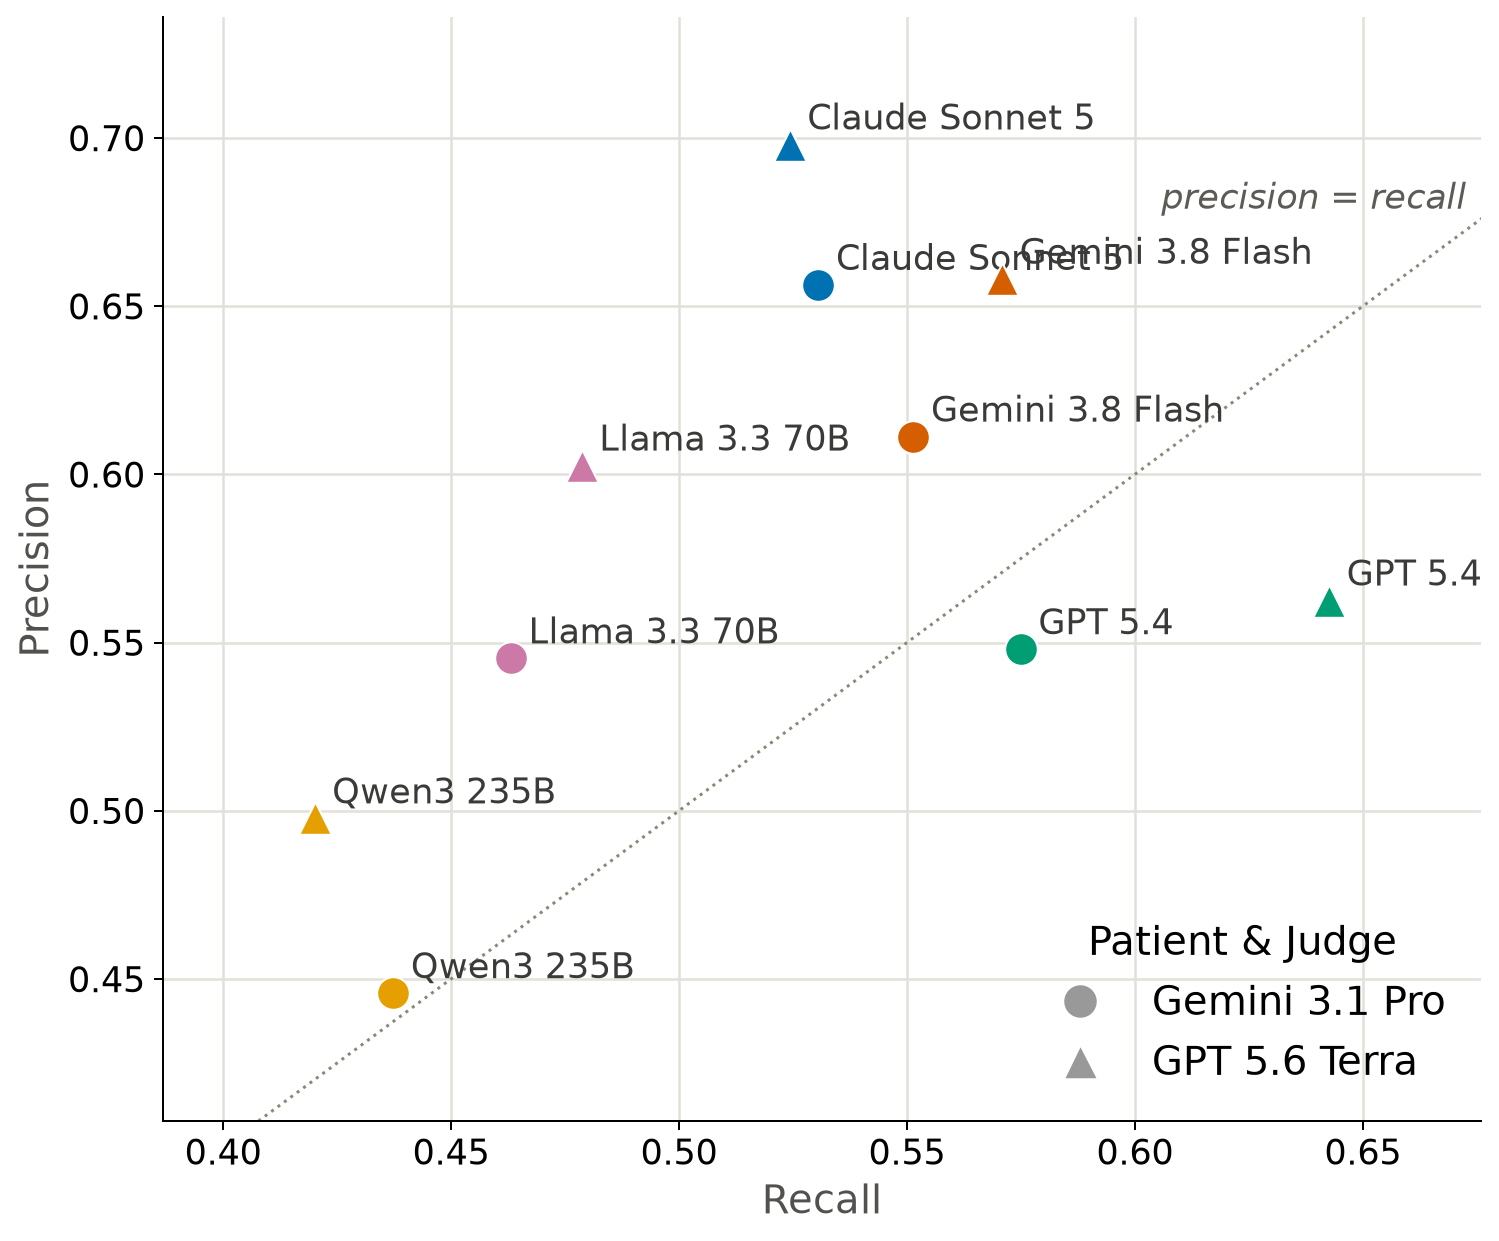
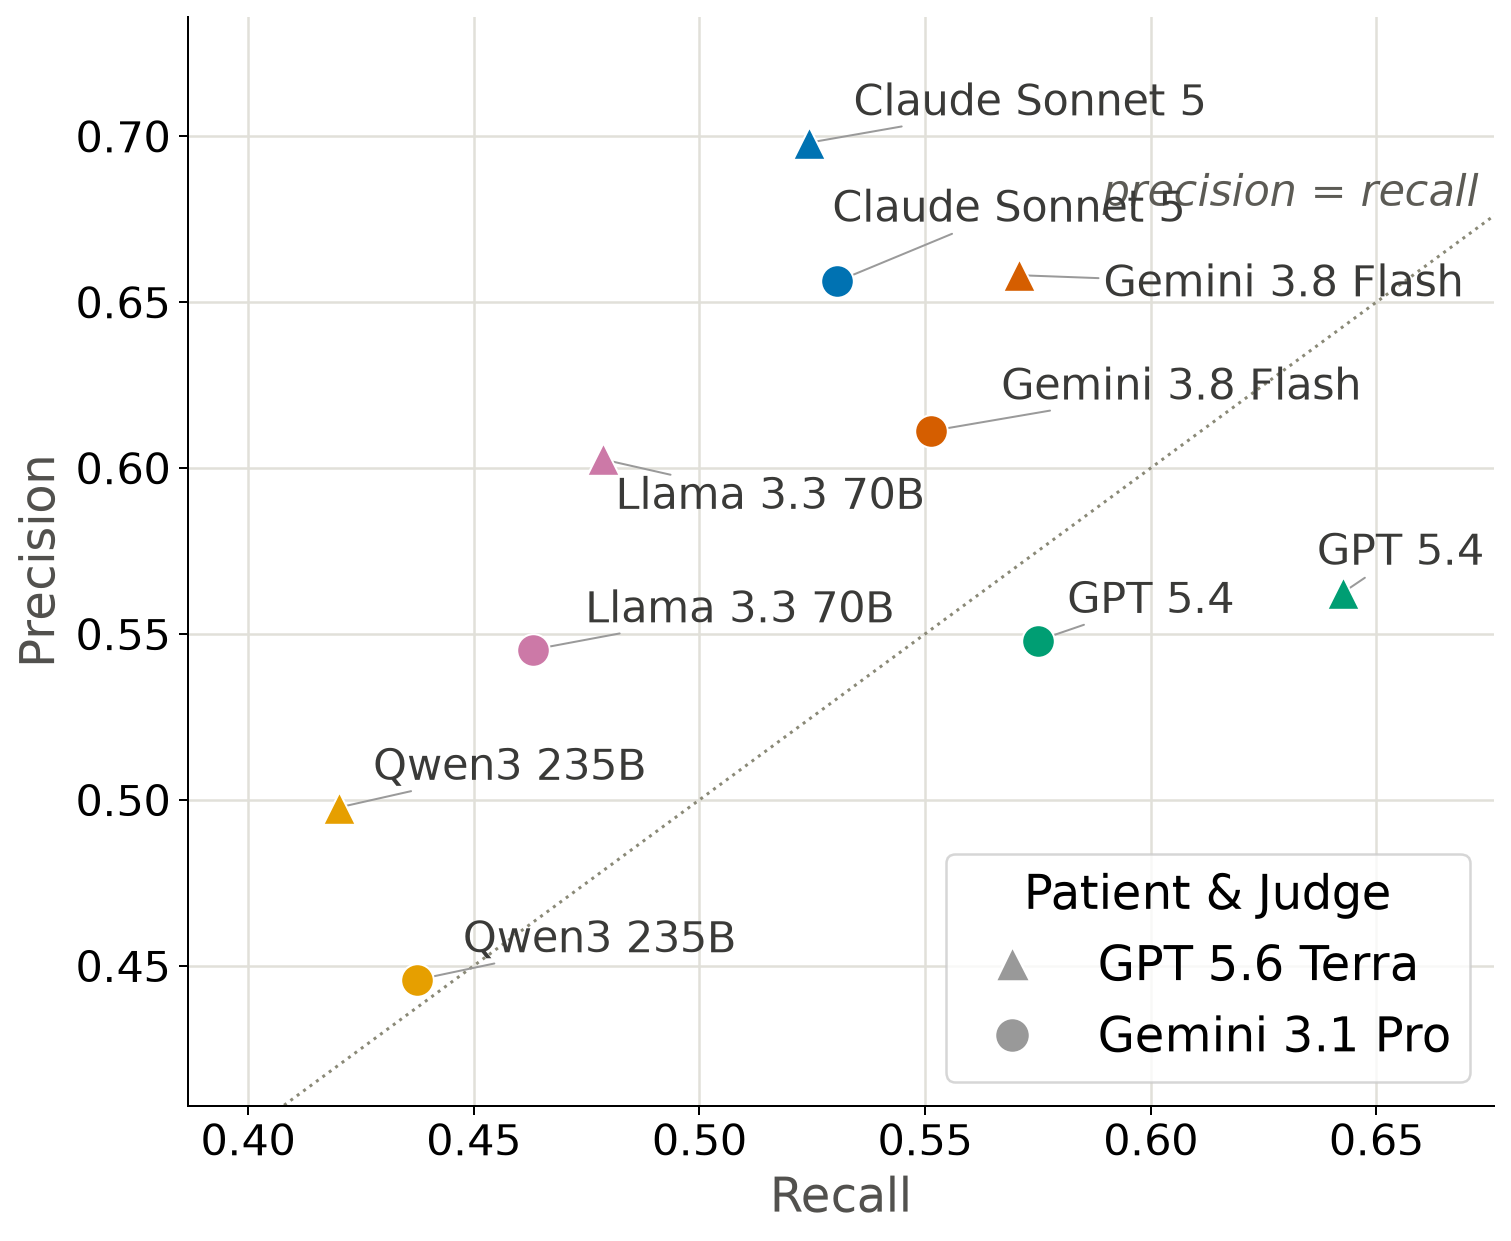
minor changes

diff --git a/reporting/plot_v4_precision_vs_recall.py b/reporting/plot_v4_precision_vs_recall.py
@@ -30,6 +30,7 @@ import sys
 from pathlib import Path
 
 import matplotlib.pyplot as plt
+from adjustText import adjust_text
 
 import sys as _sys
 _REPO_ROOT = Path(__file__).resolve().parent.parent
@@ -121,25 +122,27 @@ def main() -> None:
     ax.plot([diag_lo, diag_hi], [diag_lo, diag_hi], color="#8a8977", linewidth=1.2,
             linestyle=":", zorder=1, clip_on=True)
     ax.annotate("precision = recall", (x_hi, min(x_hi, y_hi)), textcoords="offset points",
-                xytext=(-6, 4), ha="right", fontsize=14, color="#5c5b55", style="italic")
+                xytext=(-6, 4), ha="right", fontsize=17, color="#5c5b55", style="italic")
 
     seen_models: set[str] = set()
+    texts = []
     for judge, doctor, x, y in points:
         color = color_of[doctor.lower()]
         label = doctor if doctor.lower() not in seen_models else None
         seen_models.add(doctor.lower())
         ax.scatter(x, y, color=color, marker=marker_of[judge], s=170,
                    edgecolors="white", linewidths=0.8, zorder=3, label=label)
-        ax.annotate(DOCTOR_NAME_CANONICAL.get(doctor.lower(), doctor), (x, y),
-                    textcoords="offset points", xytext=(7, 6),
-                    fontsize=14, color="#3a3a38")
+        texts.append(ax.text(x, y, DOCTOR_NAME_CANONICAL.get(doctor.lower(), doctor),
+                              fontsize=17, color="#3a3a38"))
 
     ax.set_xlim(x_lo, x_hi)
     ax.set_ylim(y_lo, y_hi)
+    adjust_text(texts, ax=ax, expand=(1.3, 1.6),
+                arrowprops=dict(arrowstyle="-", color="#9a9a9a", lw=0.8))
 
-    ax.set_xlabel("Recall", fontsize=16, color="#52514e")
-    ax.set_ylabel("Precision", fontsize=16, color="#52514e")
-    ax.tick_params(axis="both", labelsize=14)
+    ax.set_xlabel("Recall", fontsize=19, color="#52514e")
+    ax.set_ylabel("Precision", fontsize=19, color="#52514e")
+    ax.tick_params(axis="both", labelsize=17)
     # ax.set_title(
     #     "evaluation_v5.md §1 — Precision vs. Recall",
     #     fontsize=12, fontweight="bold",
@@ -154,21 +157,23 @@ def main() -> None:
                    markeredgecolor="white", markersize=10, label=DOCTOR_NAME_CANONICAL.get(d, d))
         for d in canonical_doctors
     ]
+    legend_judge_order = ["gpt-5.6-terra", "gemini-3.1-pro-preview"]
+    legend_judges = [j for j in legend_judge_order if j in judges] + [j for j in judges if j not in legend_judge_order]
     judge_handles = [
         plt.Line2D([0], [0], marker=marker_of[j], color="w", markerfacecolor="#999999",
                    markeredgecolor="white", markersize=14, label=JUDGE_NAME_CANONICAL.get(j, j))
-        for j in judges
+        for j in legend_judges
     ]
     # legend: models
     # leg1 = ax.legend(handles=model_handles, title="Doctor model", loc="upper left",
     #                   bbox_to_anchor=(1.02, 1.0), fontsize=12, frameon=False)
     # ax.add_artist(leg1)
     # legend: judges
-    ax.legend(handles=judge_handles, 
-              title="Patient & Judge", title_fontsize=16,
+    ax.legend(handles=judge_handles,
+              title="Patient & Judge", title_fontsize=19,
               loc="lower right",
               # bbox_to_anchor=(1.02, 0.0),
-              fontsize=16, frameon=False)
+              fontsize=19, frameon=True)
 
     fig.tight_layout()
     out_path = Path(args.out) if args.out else ANALYSIS_ROOT / "v4_precision_vs_recall.png"
